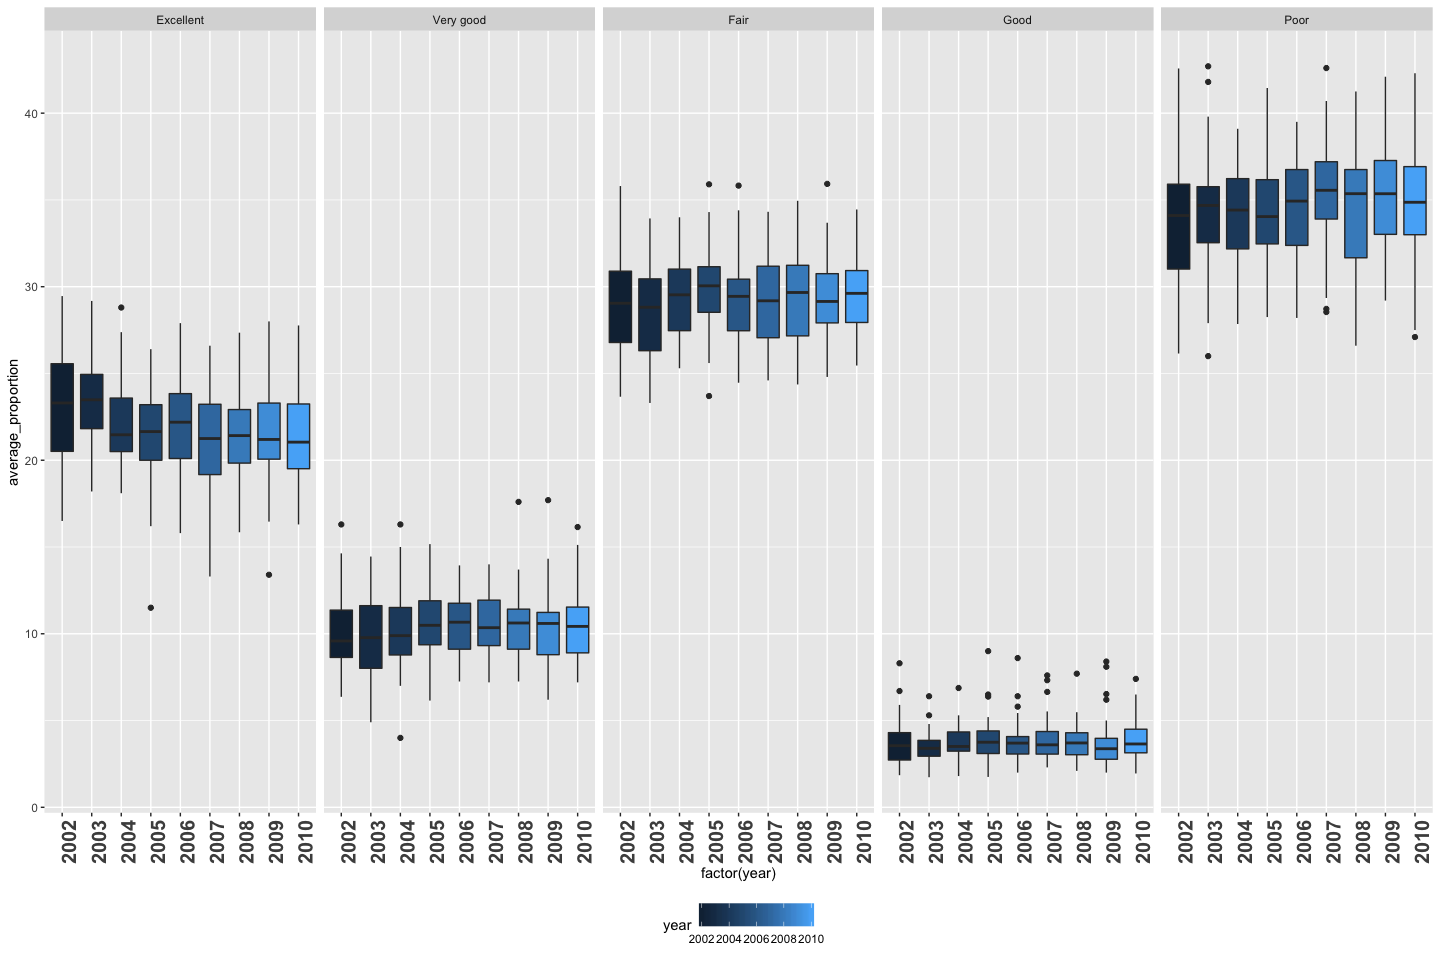
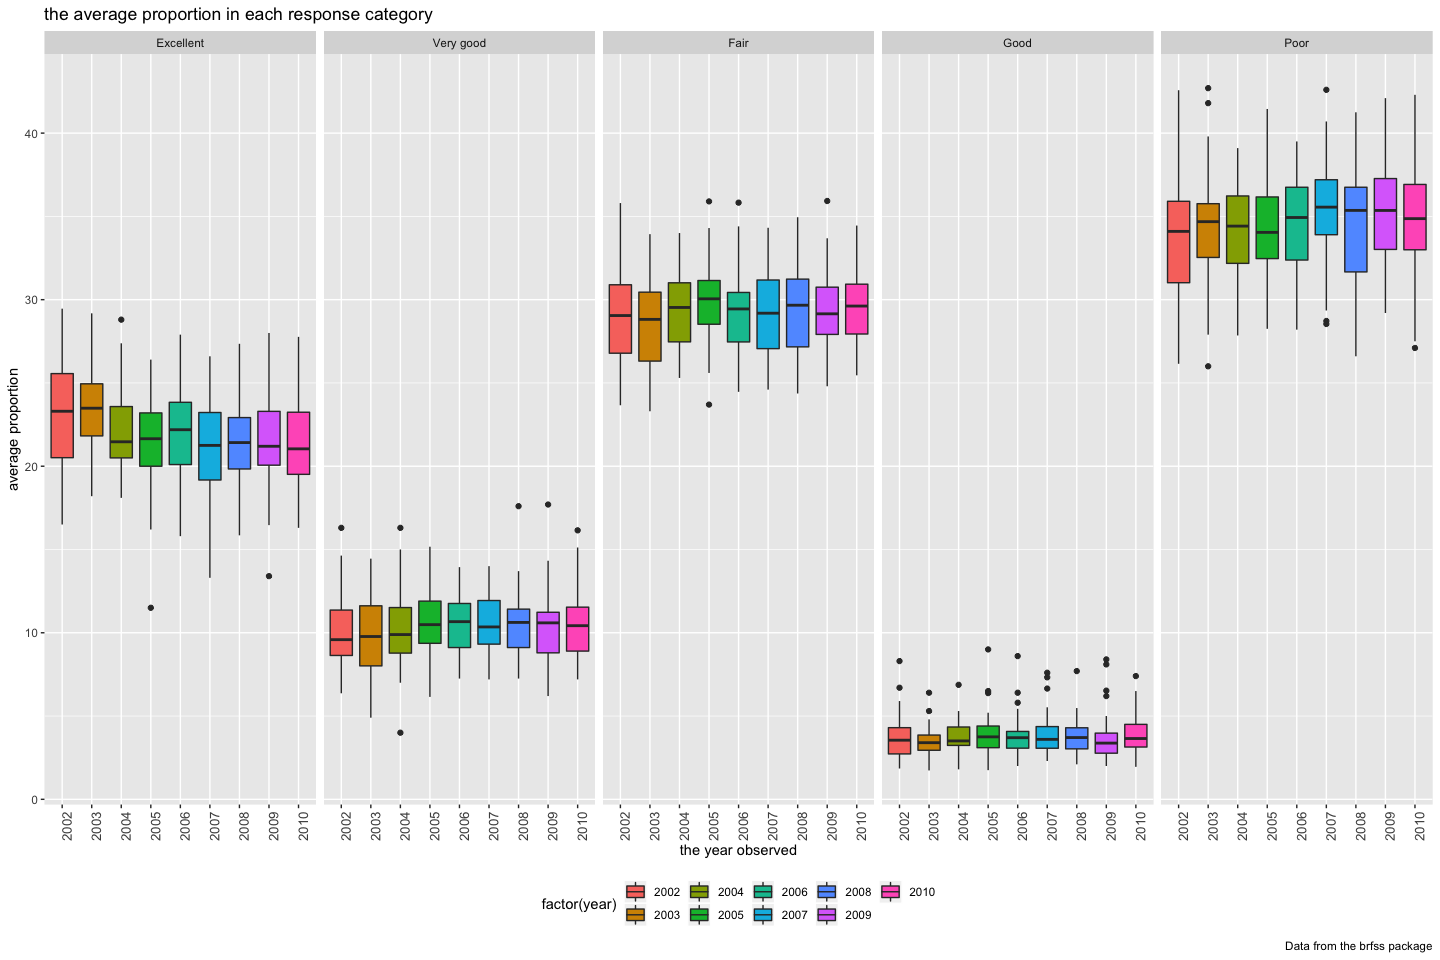
Import the instacart data of Problem 2 and briefly describe the data.

diff --git a/p8105_hw3_jx2371.md b/p8105_hw3_jx2371.md
@@ -106,11 +106,91 @@ brfss%>%
   select(year,state,location, response, data_value)%>%
   group_by(year,state,response)%>%
   summarise(average_proportion=mean(data_value))%>%
-  ggplot(aes(x = factor(year), y = average_proportion, fill=year)) + 
+  ggplot(aes(x = factor(year), y = average_proportion, fill=factor(year))) + 
   geom_boxplot()+
+  labs(
+    title = "the average proportion in each response category",
+    x = "the year observed",
+    y = "average proportion",
+    caption = "Data from the brfss package"
+  )+
+  viridis::scale_color_viridis(
+    name = "year", 
+    discrete = TRUE
+  ) + 
   facet_grid(.~response)+
   theme(legend.position = "bottom")+
-  theme(axis.text.x = element_text(face="bold", size=15, angle = 90))
+  theme(axis.text.x = element_text(size=10, angle = 90))
 ```
 
 ![](p8105_hw3_jx2371_files/figure-markdown_github/unnamed-chunk-6-1.png) We can observe from the boxplots that the average proportion ordered from highest to the lowest from an overall average trend aspect is:poor response, fair response, excellent response, very good response and good response. And there are some outliers in all of the response section.
+
+Problem2
+========
+
+Firstly, import the instacat data
+
+``` r
+instacart=instacart
+```
+
+brief description of the dataset
+--------------------------------
+
+The size of dataset is （1384617, 15). The variables includes "order\_id, product\_id, add\_to\_cart\_order, reordered, user\_id, eval\_set, order\_number, order\_dow, order\_hour\_of\_day, days\_since\_prior\_order, product\_name, aisle\_id, department\_id, aisle, department". The type and menaing of each variables are displayed in the chunk below:
+
+``` r
+str(instacart)
+```
+
+    ## Classes 'tbl_df', 'tbl' and 'data.frame':    1384617 obs. of  15 variables:
+    ##  $ order_id              : int  1 1 1 1 1 1 1 1 36 36 ...
+    ##  $ product_id            : int  49302 11109 10246 49683 43633 13176 47209 22035 39612 19660 ...
+    ##  $ add_to_cart_order     : int  1 2 3 4 5 6 7 8 1 2 ...
+    ##  $ reordered             : int  1 1 0 0 1 0 0 1 0 1 ...
+    ##  $ user_id               : int  112108 112108 112108 112108 112108 112108 112108 112108 79431 79431 ...
+    ##  $ eval_set              : chr  "train" "train" "train" "train" ...
+    ##  $ order_number          : int  4 4 4 4 4 4 4 4 23 23 ...
+    ##  $ order_dow             : int  4 4 4 4 4 4 4 4 6 6 ...
+    ##  $ order_hour_of_day     : int  10 10 10 10 10 10 10 10 18 18 ...
+    ##  $ days_since_prior_order: int  9 9 9 9 9 9 9 9 30 30 ...
+    ##  $ product_name          : chr  "Bulgarian Yogurt" "Organic 4% Milk Fat Whole Milk Cottage Cheese" "Organic Celery Hearts" "Cucumber Kirby" ...
+    ##  $ aisle_id              : int  120 108 83 83 95 24 24 21 2 115 ...
+    ##  $ department_id         : int  16 16 4 4 15 4 4 16 16 7 ...
+    ##  $ aisle                 : chr  "yogurt" "other creams cheeses" "fresh vegetables" "fresh vegetables" ...
+    ##  $ department            : chr  "dairy eggs" "dairy eggs" "produce" "produce" ...
+    ##  - attr(*, "spec")=List of 2
+    ##   ..$ cols   :List of 15
+    ##   .. ..$ order_id              : list()
+    ##   .. .. ..- attr(*, "class")= chr  "collector_integer" "collector"
+    ##   .. ..$ product_id            : list()
+    ##   .. .. ..- attr(*, "class")= chr  "collector_integer" "collector"
+    ##   .. ..$ add_to_cart_order     : list()
+    ##   .. .. ..- attr(*, "class")= chr  "collector_integer" "collector"
+    ##   .. ..$ reordered             : list()
+    ##   .. .. ..- attr(*, "class")= chr  "collector_integer" "collector"
+    ##   .. ..$ user_id               : list()
+    ##   .. .. ..- attr(*, "class")= chr  "collector_integer" "collector"
+    ##   .. ..$ eval_set              : list()
+    ##   .. .. ..- attr(*, "class")= chr  "collector_character" "collector"
+    ##   .. ..$ order_number          : list()
+    ##   .. .. ..- attr(*, "class")= chr  "collector_integer" "collector"
+    ##   .. ..$ order_dow             : list()
+    ##   .. .. ..- attr(*, "class")= chr  "collector_integer" "collector"
+    ##   .. ..$ order_hour_of_day     : list()
+    ##   .. .. ..- attr(*, "class")= chr  "collector_integer" "collector"
+    ##   .. ..$ days_since_prior_order: list()
+    ##   .. .. ..- attr(*, "class")= chr  "collector_integer" "collector"
+    ##   .. ..$ product_name          : list()
+    ##   .. .. ..- attr(*, "class")= chr  "collector_character" "collector"
+    ##   .. ..$ aisle_id              : list()
+    ##   .. .. ..- attr(*, "class")= chr  "collector_integer" "collector"
+    ##   .. ..$ department_id         : list()
+    ##   .. .. ..- attr(*, "class")= chr  "collector_integer" "collector"
+    ##   .. ..$ aisle                 : list()
+    ##   .. .. ..- attr(*, "class")= chr  "collector_character" "collector"
+    ##   .. ..$ department            : list()
+    ##   .. .. ..- attr(*, "class")= chr  "collector_character" "collector"
+    ##   ..$ default: list()
+    ##   .. ..- attr(*, "class")= chr  "collector_guess" "collector"
+    ##   ..- attr(*, "class")= chr "col_spec"
